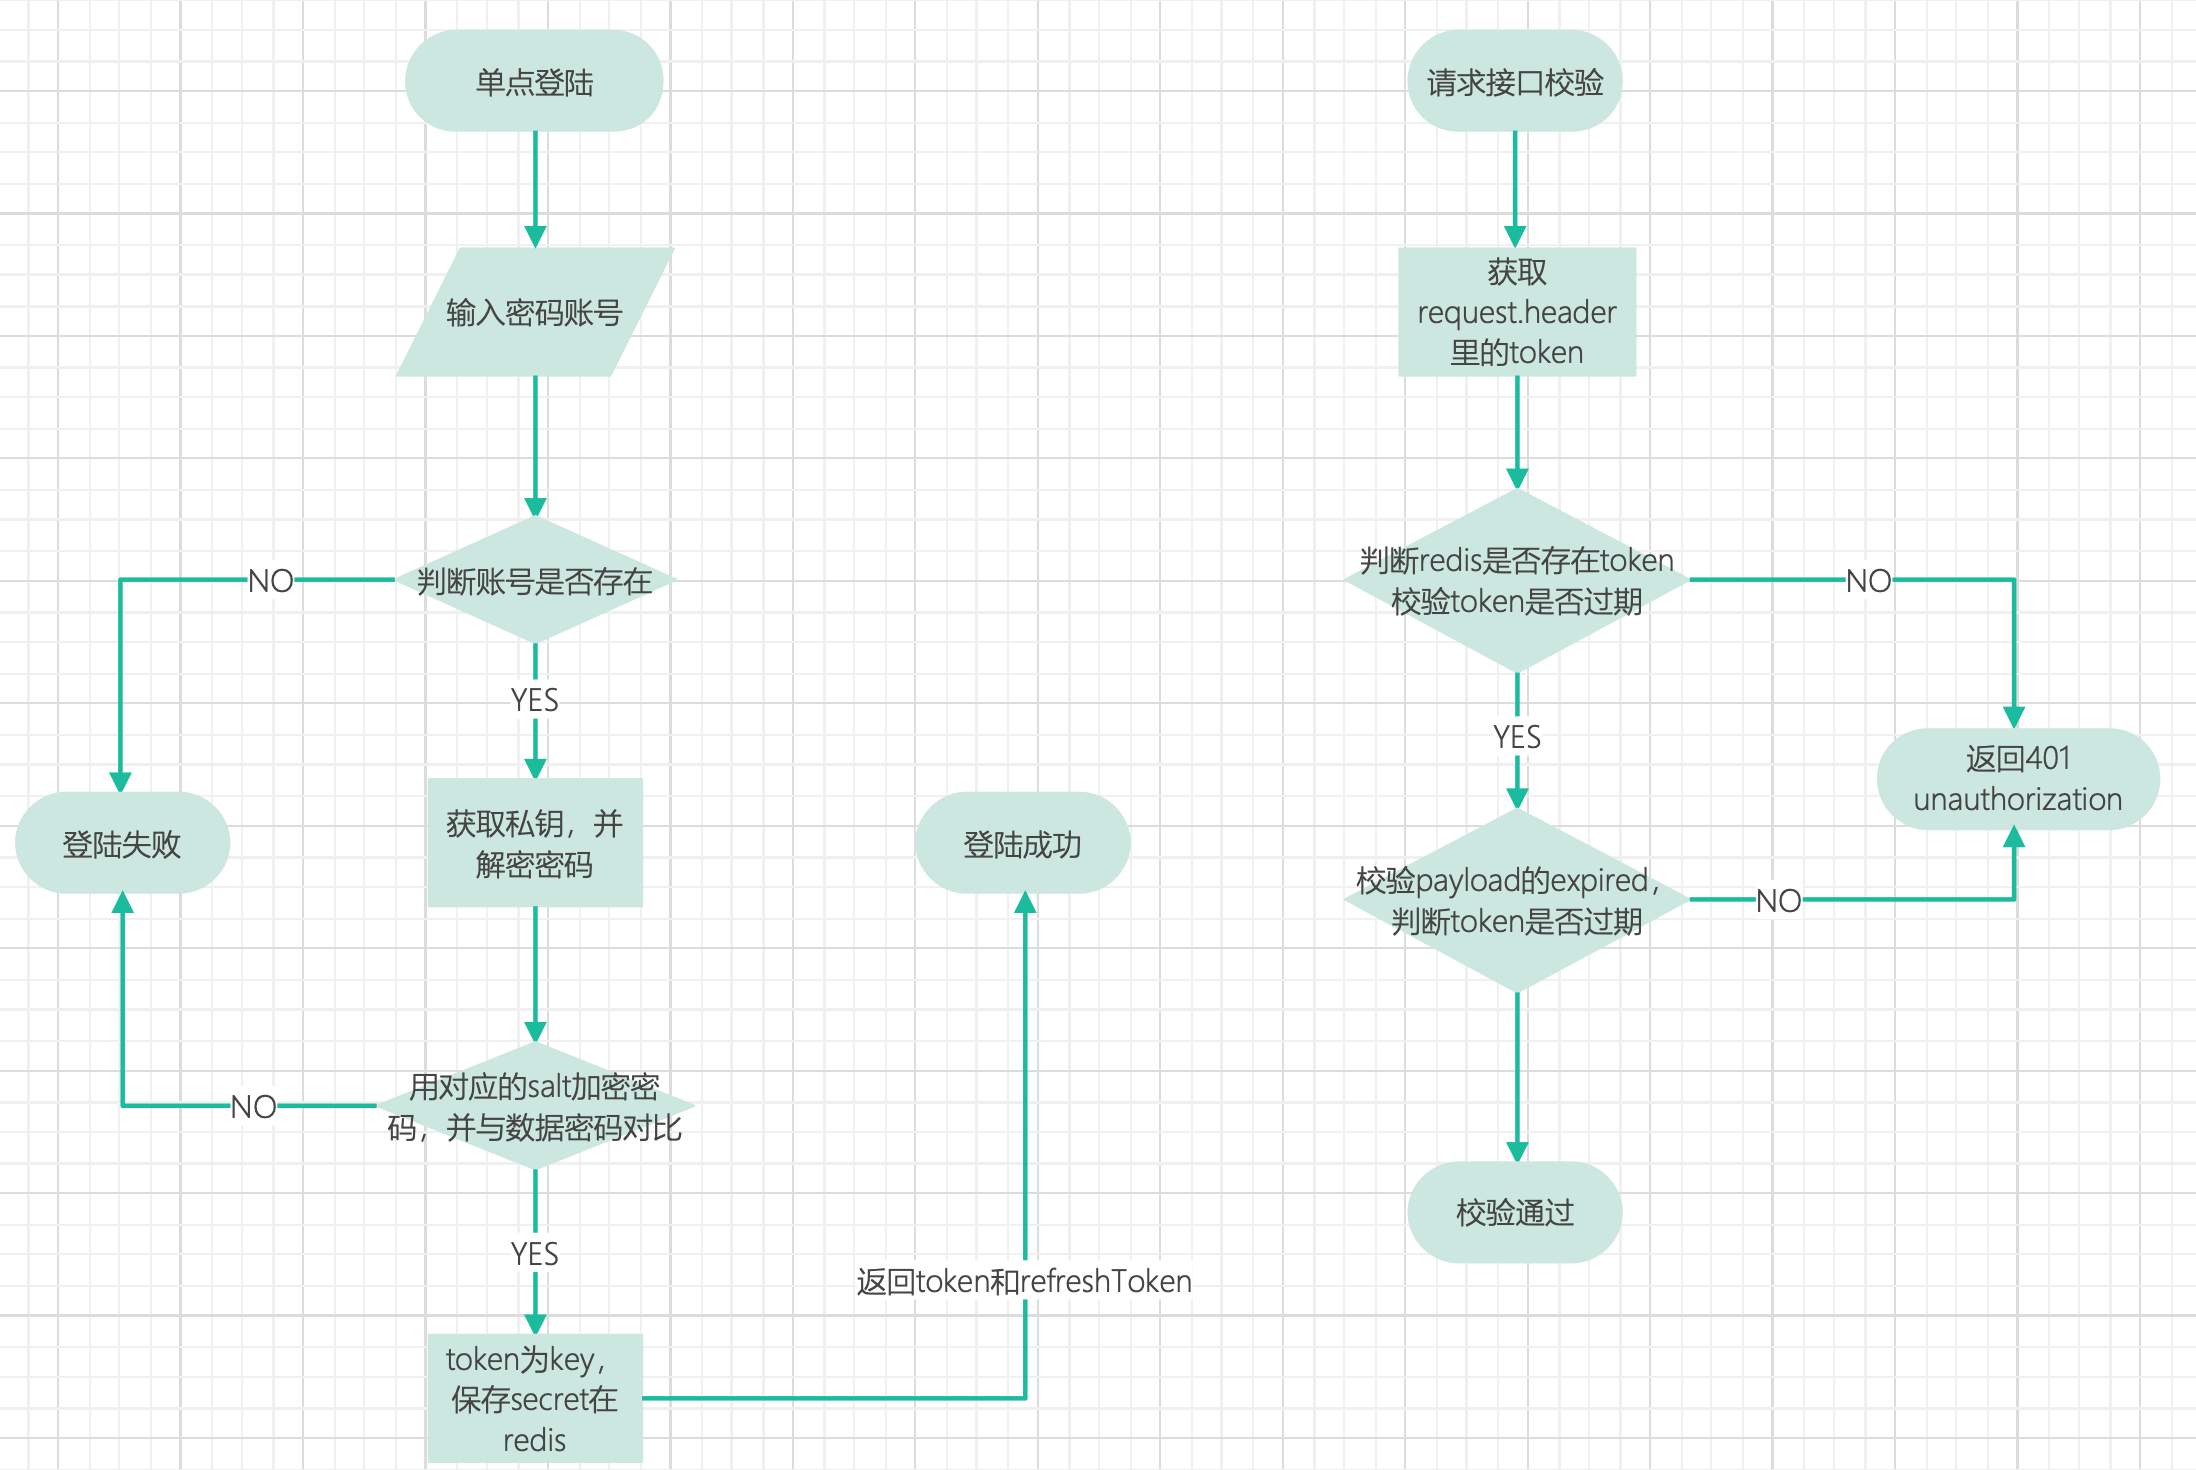
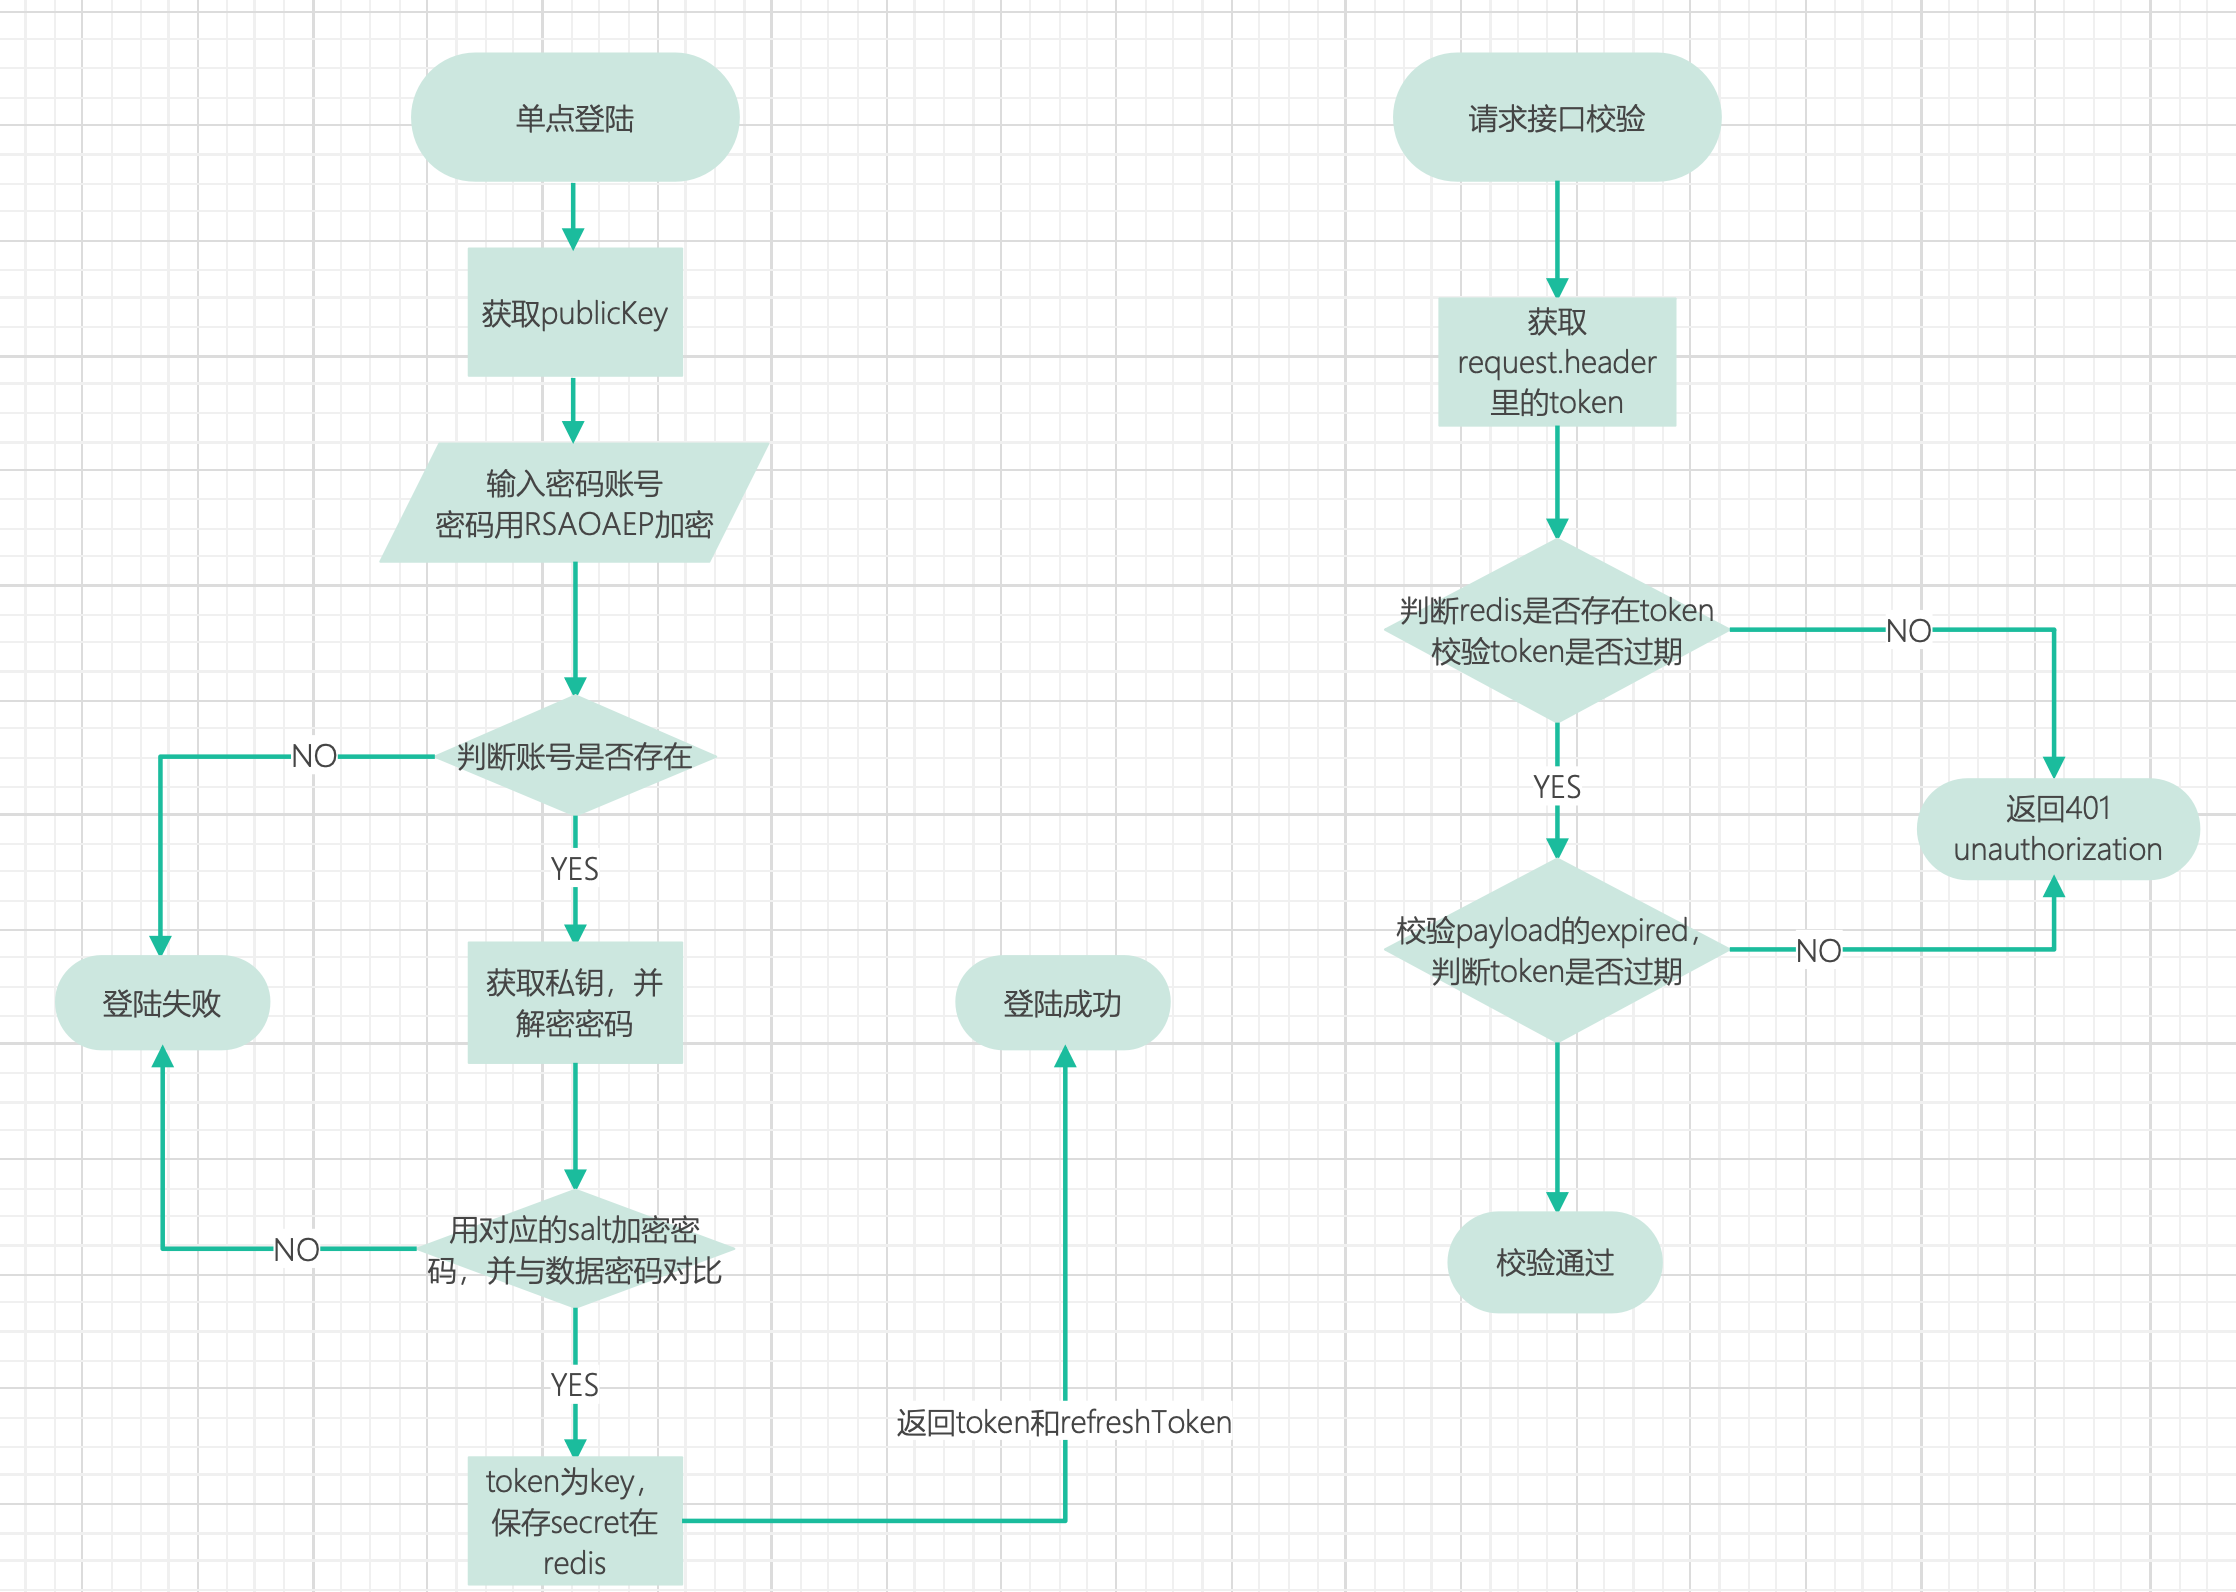
更新README

diff --git a/README.md b/README.md
@@ -1,14 +1,13 @@
 # login
 
-> 包含RSA密码加解密码、JWT toekn生成及校验
+> 1.JWT登陆: 包含RSA密码加解密码、JWT toekn生成及校验、redis存储token & secret
+> 2.cookie登陆: session校验、redis存储
 
 ### JWT登陆流程图
 ![jwt流程图](screenshot/jwt.png)
 
 ### TODO
-1. redis存储secret
-2. cookies方式登陆校验
-3. oauth2方式登陆校验
+1. oauth2方式登陆校验
 
 ## Project setup
 ```
